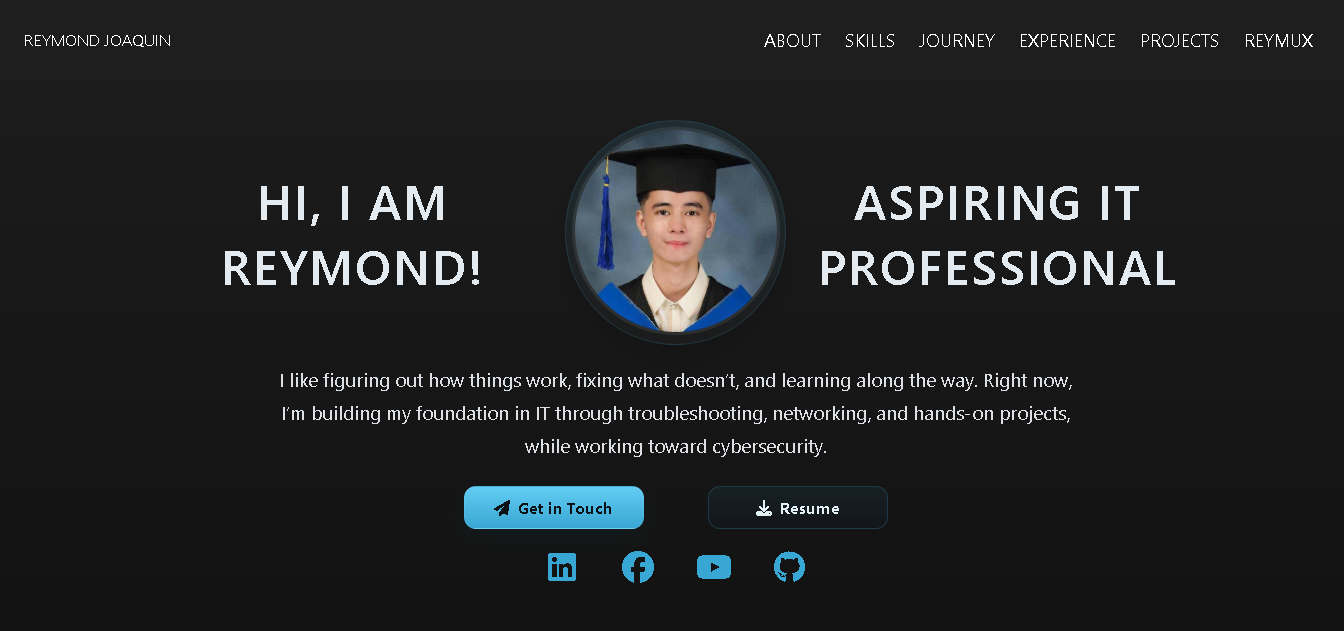
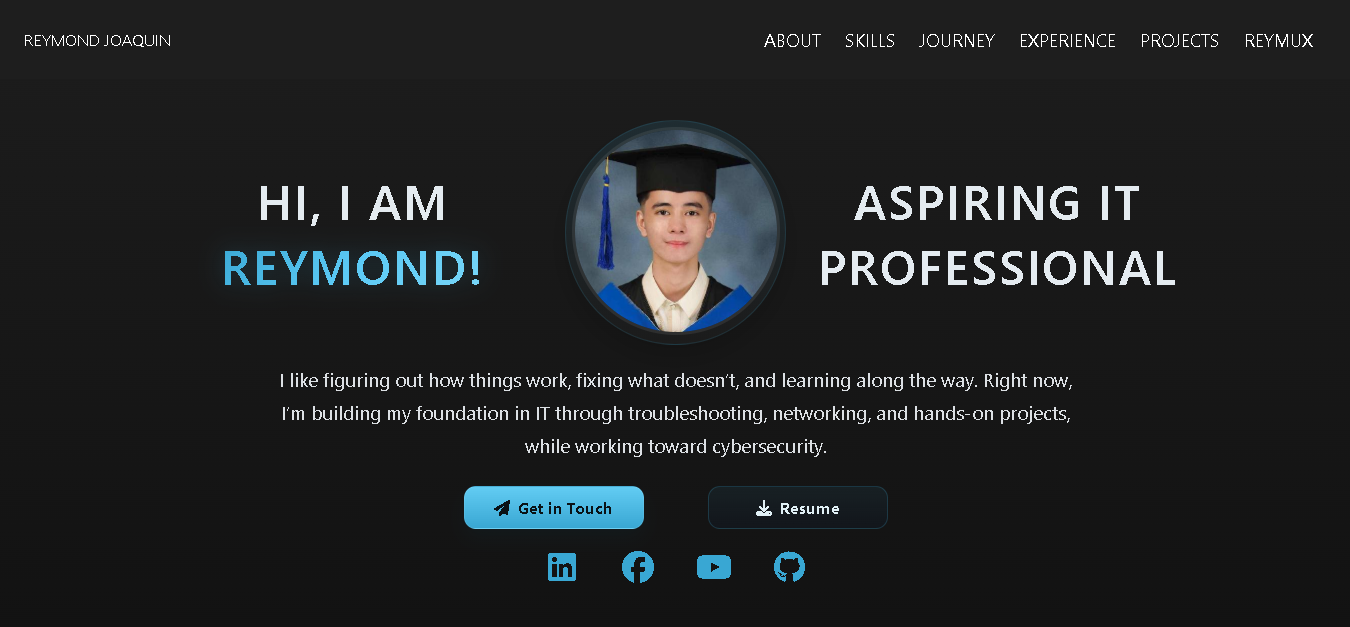
style: tweak spacing h3 from journey section

diff --git a/css/style.css b/css/style.css
@@ -571,7 +571,7 @@ main {
 }
 
 .experience-card h3 {
-    margin-bottom: 0.85rem;
+    margin-bottom: 2rem;
 
     font-size: 1.35rem;
     font-weight: 700;
